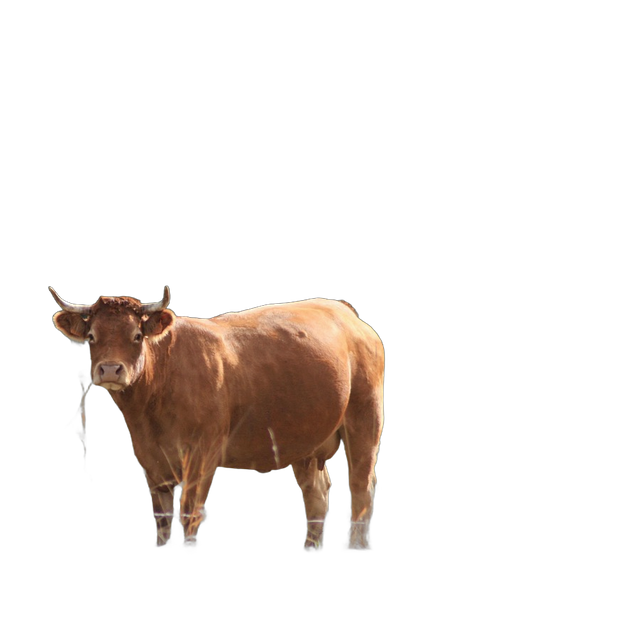
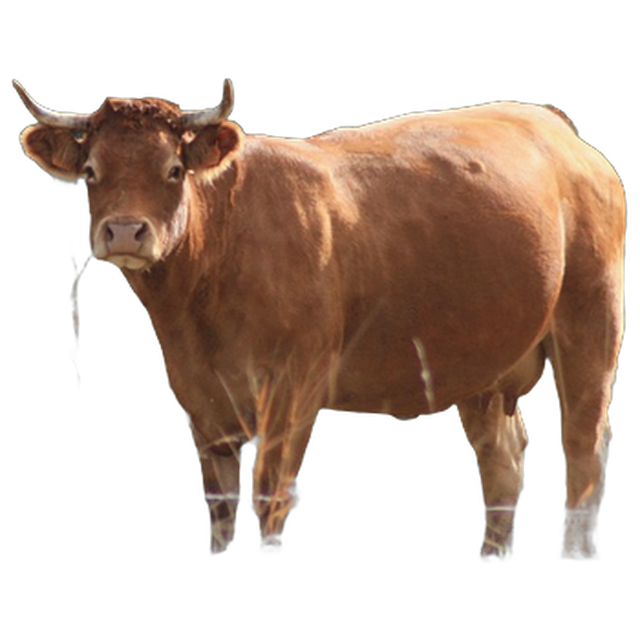
Увеличить корову и чашку в кадре
Дана заметила, что корова мелкая. Замер подтвердил и нашёл второго:
корова занимала 53% квадрата, чашка 34%, у остальных 85–87%.

Виноват полупрозрачный ореол, остающийся вокруг предмета после
вырезания: getbbox считает краем любой пиксель с альфой больше нуля,
поэтому рамка принимала ореол за предмет и ужимала настоящий силуэт.
Теперь края ищутся по альфе выше 25 — ореол отбрасывается.

diff --git a/pics.html b/pics.html
@@ -115,7 +115,7 @@
     }
     return rank(a) - rank(b);
   });
-  var VER = "10";               // сбрасывает кэш картинок в браузере
+  var VER = "11";               // сбрасывает кэш картинок в браузере
   /* Ключ постоянный: отметки живут между кругами. Раньше он менялся с
      каждой версией, и утверждённые картинки приходилось отмечать заново —
      по тридцать штук ради трёх заменённых.                              */
